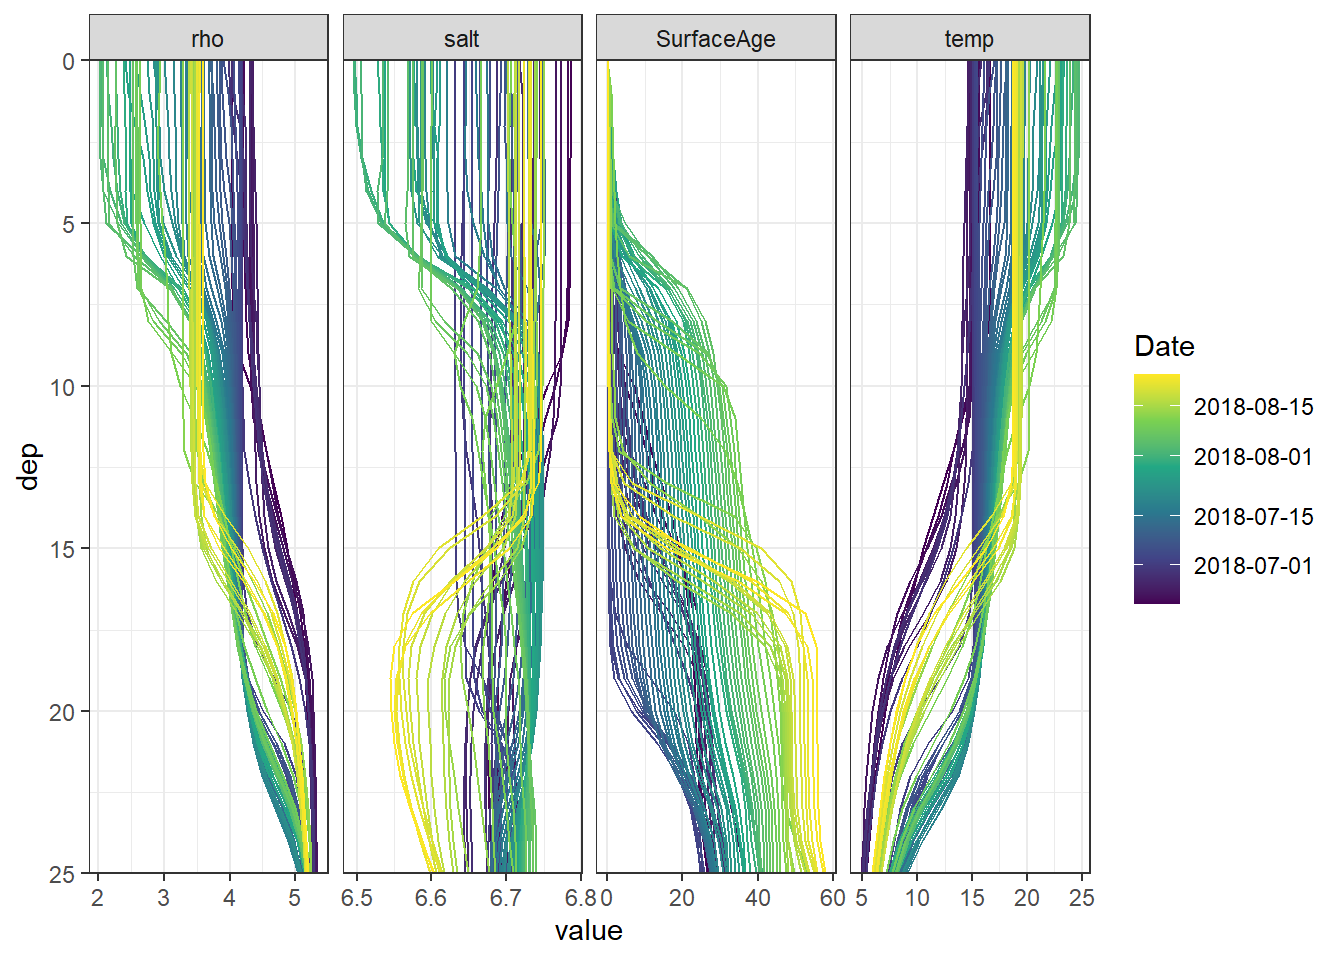
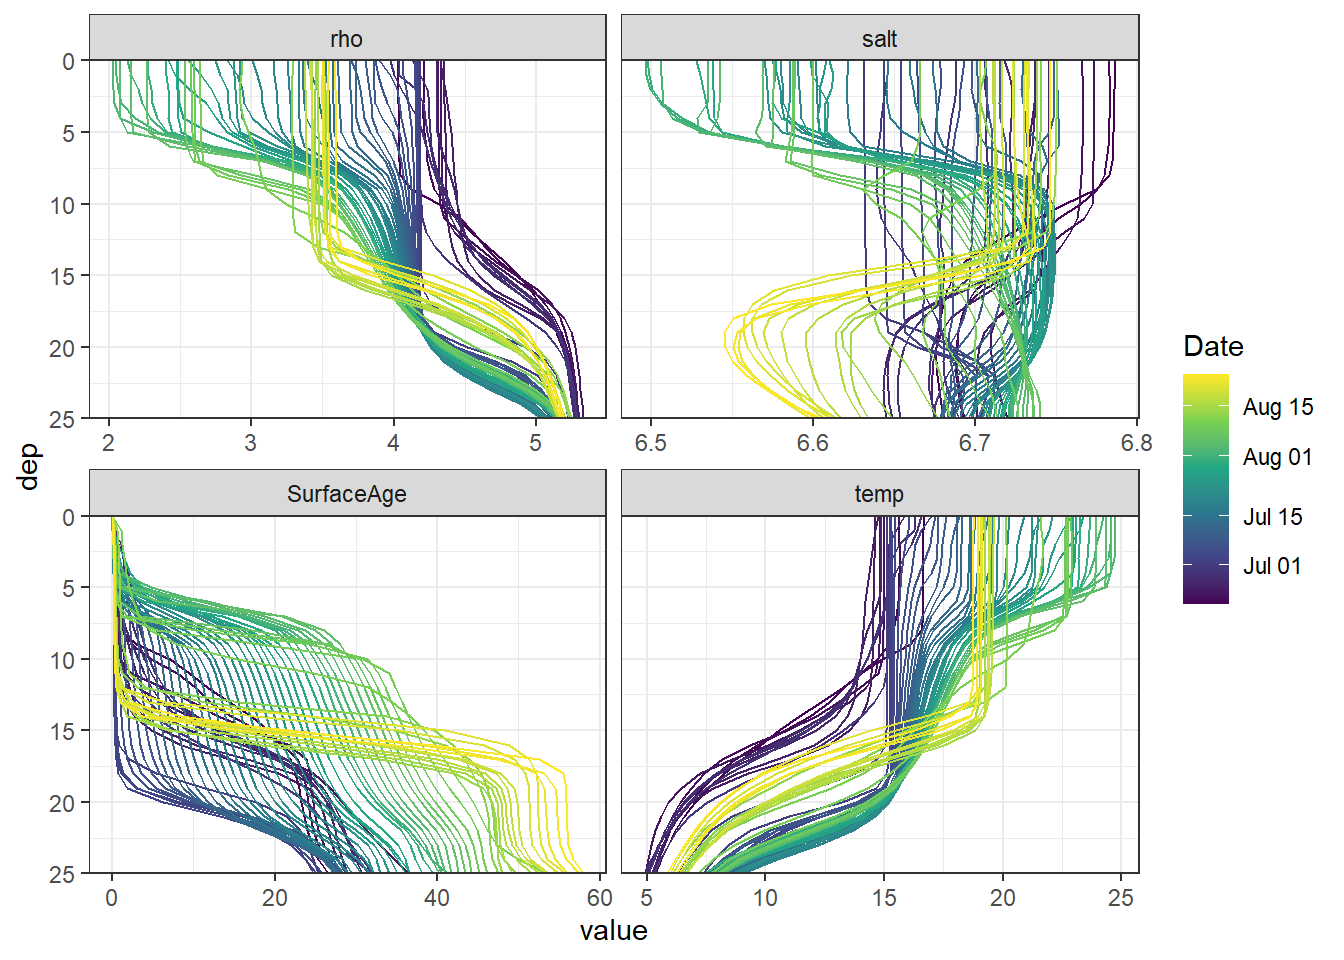
Build site.

diff --git a/docs/Finnmaid+GETM.html b/docs/Finnmaid+GETM.html
@@ -554,10 +554,10 @@ This reproducible <a href="http://rmarkdown.rstudio.com">R Markdown</a> analysis
 <div class="panel panel-default">
 <div class="panel-heading">
 <p class="panel-title">
-<a data-toggle="collapse" data-parent="#workflowr-checks" href="#strongRepositoryversionstrongahrefhttpsgithubcomjensdanielmuellerBloomSailtreec54fd0e8ea00e48da937879bf86de68befa93e99targetblankc54fd0ea"> <span class="glyphicon glyphicon-ok text-success" aria-hidden="true"></span> <strong>Repository version:</strong> <a href="https://github.com/jens-daniel-mueller/BloomSail/tree/c54fd0e8ea00e48da937879bf86de68befa93e99" target="_blank">c54fd0e</a> </a>
+<a data-toggle="collapse" data-parent="#workflowr-checks" href="#strongRepositoryversionstrongahrefhttpsgithubcomjensdanielmuellerBloomSailtreea7f8ceccacc3b83debd25825f902261cafb5c857targetblanka7f8ceca"> <span class="glyphicon glyphicon-ok text-success" aria-hidden="true"></span> <strong>Repository version:</strong> <a href="https://github.com/jens-daniel-mueller/BloomSail/tree/a7f8ceccacc3b83debd25825f902261cafb5c857" target="_blank">a7f8cec</a> </a>
 </p>
 </div>
[2 lines of base64/hex data omitted]
 <div class="panel-body">
 <p>
 Great! You are using Git for version control. Tracking code development and connecting the code version to the results is critical for reproducibility. The version displayed above was the version of the Git repository at the time these results were generated. <br><br> Note that you need to be careful to ensure that all relevant files for the analysis have been committed to Git prior to generating the results (you can use <code>wflow_publish</code> or <code>wflow_git_commit</code>). workflowr only checks the R Markdown file, but you know if there are other scripts or data files that it depends on. Below is the status of the Git repository when the results were generated:
@@ -713,18 +713,14 @@ gt_3d &lt;- gt_3d_long %&gt;%
 <pre class="r"><code>gt_3d_long &lt;- gt_3d %&gt;% 
   pivot_longer(c(salt, SurfaceAge, temp, rho), values_to = &quot;value&quot;, names_to = &quot;var&quot;)
 
-lab_dates &lt;- pretty(gt_3d_long$date_time)
-
 gt_3d_long %&gt;% 
   ggplot(aes(value, dep,
-             col=as.numeric(date_time),
-             group=as.factor(date_time)))+
+             col=date_time,
+             group=date_time))+
   geom_path()+
   scale_y_reverse(expand = c(0,0))+
-  scale_color_viridis_c(breaks = as.numeric(lab_dates),
-                        labels = lab_dates,
-                        name=&quot;Date&quot;)+
-  facet_grid(~var, scales = &quot;free_x&quot;)</code></pre>
+  scale_color_viridis_c(name=&quot;Date&quot;, trans = &quot;time&quot;)+
+  facet_wrap(~var, scales = &quot;free_x&quot;, ncol = 2)</code></pre>
 <p><img src="figure/Finnmaid+GETM.Rmd/plot_gt_profiles_salt_temp_rho-1.png" width="672" style="display: block; margin: auto;" /></p>
 </div>
 <div id="mixed-layer-depth" class="section level2">
@@ -855,7 +851,7 @@ p_age &lt;- gt_3d %&gt;%
             aes(x = date_time, y = mld_rho), color = &quot;white&quot;)
 
 p_sal / p_tem / p_rho / p_age</code></pre>
-<p><img src="figure/Finnmaid+GETM.Rmd/plot_hovmoeller_gt_salt_temp_rho_age-1.png" width="672" style="display: block; margin: auto;" /></p>
+<p><img src="figure/Finnmaid+GETM.Rmd/gt_hovmoeller_salt_temp_rho_age-1.png" width="672" style="display: block; margin: auto;" /></p>
 <pre class="r"><code>rm(p_sal, p_tem, p_rho)</code></pre>
 </div>
 <div id="test-calculation" class="section level3">
